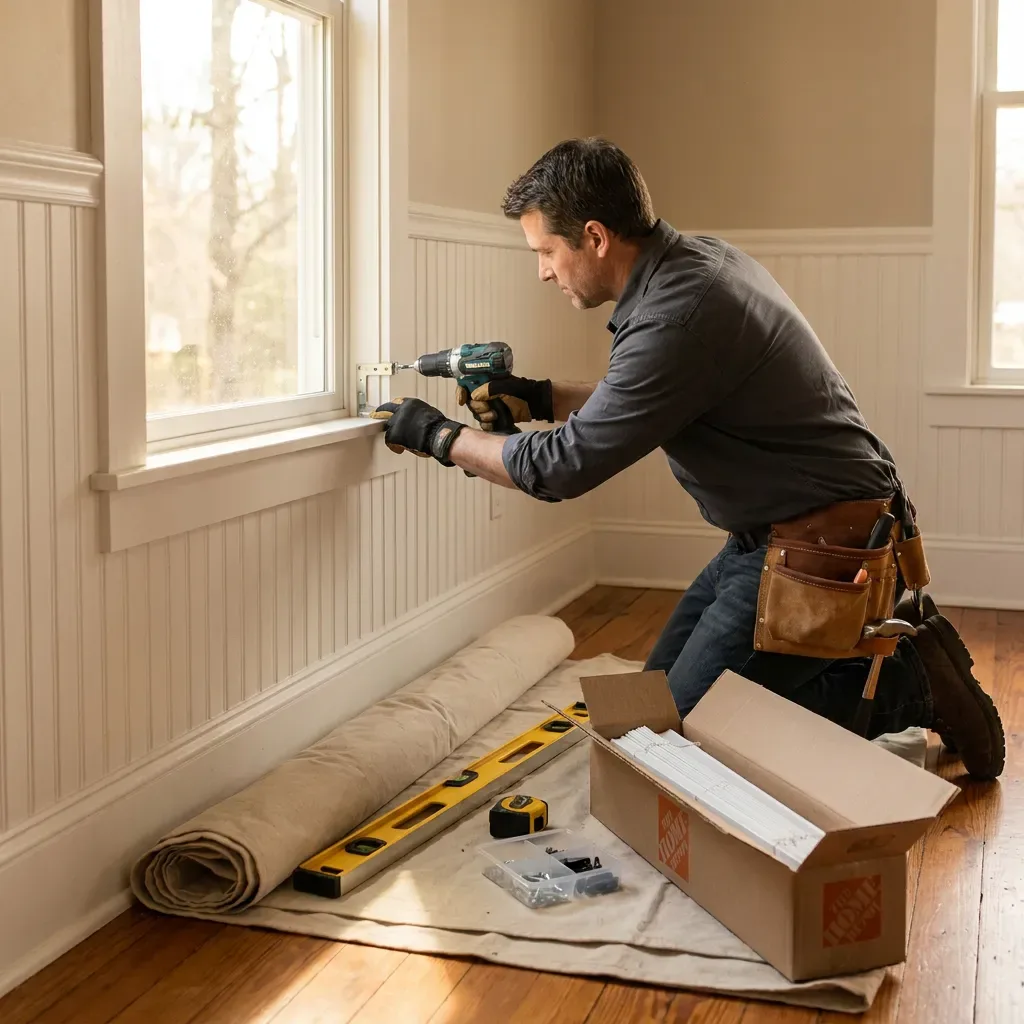
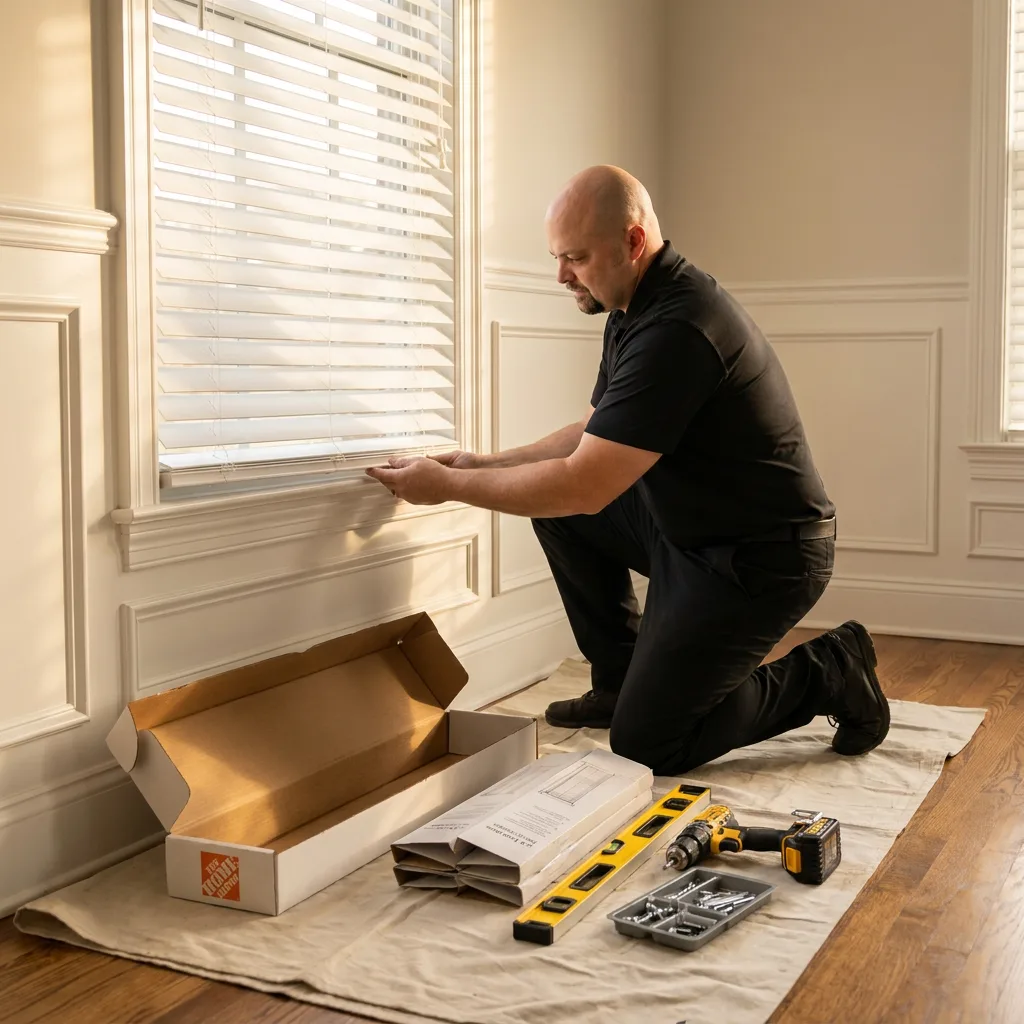
Re-shoot install-only card with Michael Blair finishing a real install
Image-edited from Michael's headshot (ss01) into a finished-install
scene: he's kneeling next to a tall sunlit window where the white faux
wood blind is already cleanly mounted, doing a final level-check on
the bottom rail. Empty Home Depot box and original packaging on the
drop cloth keep the BYO message obvious. No more confusion about
"drilling into the window" — the install is clearly done.

diff --git a/index.html b/index.html
@@ -798,7 +798,7 @@
             <div class="product-card__media product-card__media--side" data-caption="Install Only · BYO Blinds">
               <picture>
                 <source srcset="/assets/images/blog/install-only-service.webp" type="image/webp" />
-                <img src="/assets/images/placeholder.svg" alt="A Stately Shades installer securing a white mounting bracket into a Tennessee window frame with a cordless drill, faux wood blinds in their Home Depot box waiting on the drop cloth" loading="lazy" />
+                <img src="/assets/images/placeholder.svg" alt="Michael Blair of Stately Shades doing a final level-check on a freshly installed white faux wood blind in a Tennessee home — the original Home Depot packaging on the drop cloth beside him" loading="lazy" />
               </picture>
             </div>
             <div class="product-card__body">